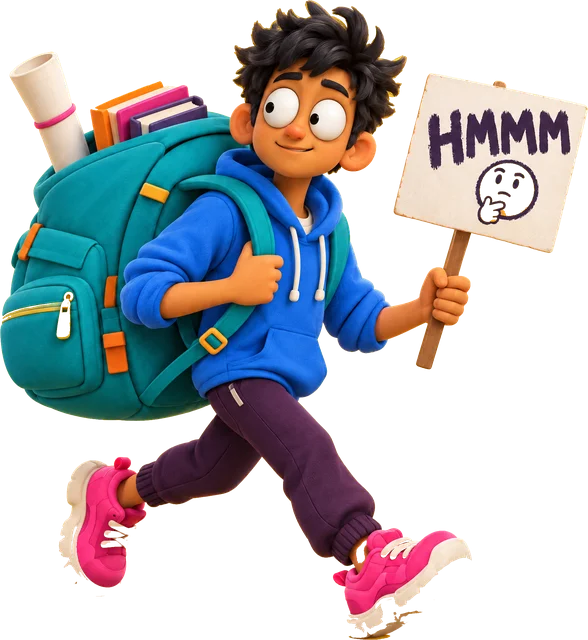
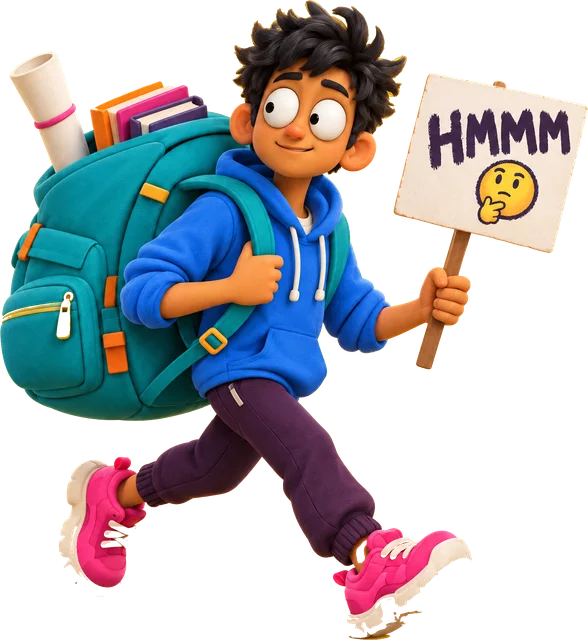
Fix Guddu's sign; shorten Cocky's name
- In-game placard now rides on Guddu's body beside his right shoulder, so it
  no longer clips through his head and backpack and flips with him on jumps
- Menu picture: restore the 🤔 emoji the background cutout had removed
- Cocky's display name is just 'Cocky'

Changed region(s): [[0.7959, 0.25, 0.9184, 0.3438]]

diff --git a/index.html b/index.html
@@ -316,7 +316,7 @@ const CHARS = [   // bio = personality, shout = catchphrase (pops at their signa
   { id:'dadi',   name:'Thali Dadi',             shout:'THAN-THAN!',    bio:'Brought her steel thali from home. Didn\'t bring it back.', ability:'Chappal Swat: auto-swats a barricade every 8s.' },
   { id:'dhol',   name:'MC Dhol',                shout:'DHAM!',         bio:'Dropped a diss track at the barricade. Dhol is the beat, Jantar Mantar is the studio.', ability:'Beat Drop: every landing sends a shockwave that clears obstacles ahead.' },
   { id:'intern', name:'Camera Person',          shout:'LIKE & SHARE!', bio:'Rolling since the first barricade. The reel outlived the minister.', ability:'Viral Flash: every near-miss flashes the camera for +25.' },
-  { id:'cocky',  name:'Cocky, Founding Member', shout:'UNBOTHERED!',   bio:'Chronically online, 11 hours a day, bathroom breaks included. Lazy only in the physical sense.', ability:'Unkillable: shrugs off one crash per run.' },
+  { id:'cocky',  name:'Cocky',                  shout:'UNBOTHERED!',   bio:'Chronically online, 11 hours a day, bathroom breaks included. Lazy only in the physical sense.', ability:'Unkillable: shrugs off one crash per run.' },
 ];
 const DAROGA = { name: 'Daroga Ji', shout: 'CHALO THANE!', bio: 'Still waiting for your Form 26-A. Attested. Three copies.' };
 const QUIPS = [   // game-over lines: satire of everyday corruption, never of real people or parties
@@ -778,7 +778,7 @@ function addPlacard() {   // the Higgsfield Guddu lost his placard, so he gets o
   const pl = new THREE.Group();
   pl.add(M(G.cyl, '#8a5a2b', 0, 0.55, 0, 0.035, 1.1, 0.035), M(G.box, COL.plum, 0, 1.2, 0, 1.02, 0.62, 0.03));
   const sign = signMesh(TEX.hmmm, 0.95, 0.55, true); sign.position.set(0, 1.2, 0); pl.add(sign);
-  rigs.guddu.placard = pl; scene.add(pl);
+  rigs.guddu.placard = pl; rigs.guddu.body.add(pl);   // rides on the body, so it flips and leans with him
 }
 addPlacard();
 // Drive a character: Higgsfield models play their run clip; code-built rigs use procedural poses.
@@ -792,7 +792,10 @@ function animate(r, mode, dt, rate, phase) {
   else if (mode === 'idle') r.body.position.y = r.H / 2 + Math.abs(Math.sin(phase)) * 0.08;
   if (r.placard) {
     r.placard.visible = r.root.visible && mode !== 'slide';
-    if (r.placard.visible) { r.root.updateMatrixWorld(true); r.hand.getWorldPosition(_hand); r.placard.position.copy(_hand); r.placard.quaternion.copy(r.root.quaternion); }
+    if (r.placard.visible) {   // held up beside his right shoulder; a damped share of the arm swing keeps it lively without clipping
+      r.root.updateMatrixWorld(true); r.body.worldToLocal(r.hand.getWorldPosition(_hand));
+      r.placard.position.set(-0.62, 0.3 + (_hand.y - 0.2) * 0.35, 0.05 + (_hand.z - 0.4) * 0.12);
+    }
   }
 }
 

diff --git a/README.md b/README.md
@@ -32,7 +32,7 @@ It runs in the browser on desktop and mobile, with no install and no build step.
 | 🩴 | **Thali Dadi** *(THAN-THAN!)* | Brought her steel thali from home. Didn't bring it back. | **Chappal Swat:** automatically swats a barricade out of the way every 8 seconds. | ₹500 |
 | 🥁 | **MC Dhol** *(DHAM!)* | Dropped a diss track at the barricade. Dhol is the beat, Jantar Mantar is the studio. | **Beat Drop:** every landing sends a shockwave that clears obstacles ahead. | ₹1000 |
 | 📸 | **Camera Person** *(LIKE & SHARE!)* | Rolling since the first barricade. The reel outlived the minister. | **Viral Flash:** every near-miss flashes the camera for +25 points. | ₹2000 |
-| 🪳 | **Cocky, Founding Member** *(UNBOTHERED!)* | Chronically online, 11 hours a day, bathroom breaks included. Lazy only in the physical sense. | **Unkillable:** shrugs off one crash per run. | ₹3000 |
+| 🪳 | **Cocky** *(UNBOTHERED!)* | Chronically online, 11 hours a day, bathroom breaks included. Lazy only in the physical sense. | **Unkillable:** shrugs off one crash per run. | ₹3000 |
 
 On your heels: 👮 **Daroga Ji** *(CHALO THANE!)*. Still waiting for your Form 26-A. Attested. Three copies.
 
